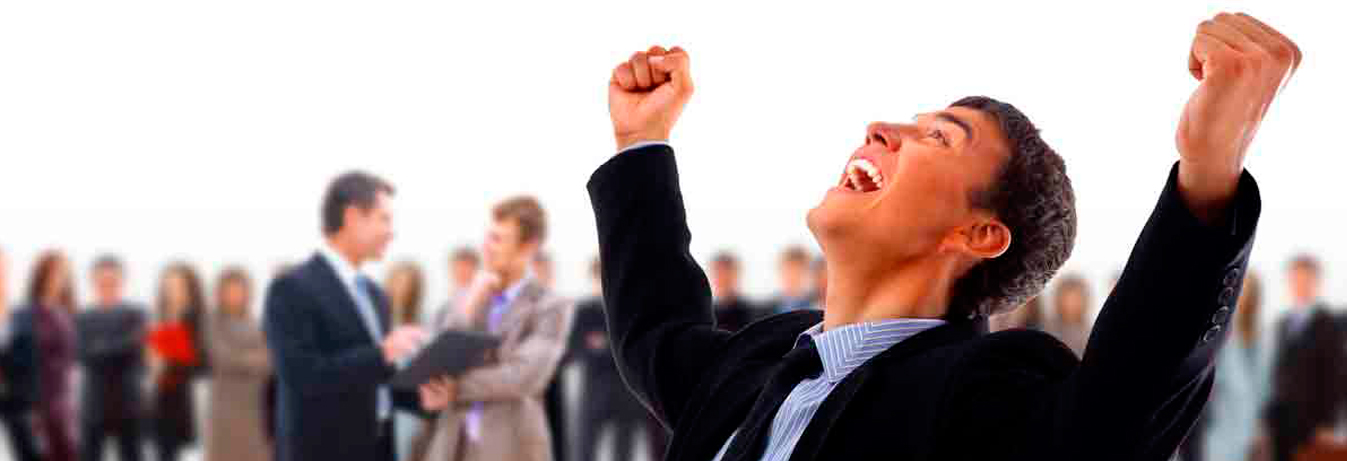
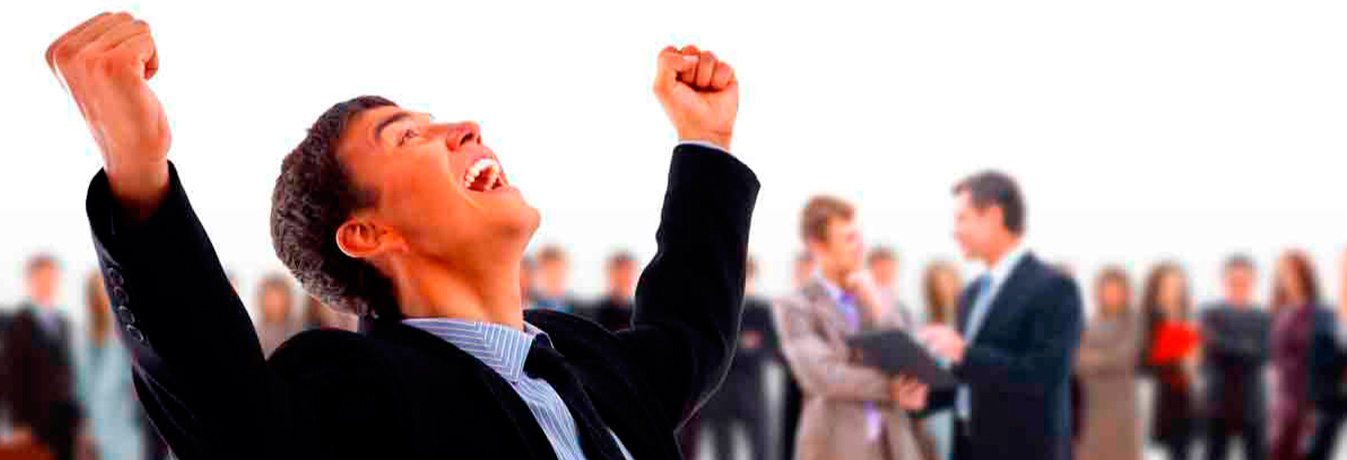
Cambiado banner2, agregado maps

diff --git a/css/main.css b/css/main.css
@@ -9,9 +9,9 @@ header {
     right: 0
 }
 #socials ul {
-    left: 5px;
+    left: 7px;
     position: absolute;
-    top: 6px;
+    top: 5px;
 }
 #socials li a {
     display: inline-block;
@@ -20,13 +20,13 @@ header {
     text-indent: -10000px;
 }
 #in {
-    margin-right: 6px;
+    margin-right: 9px;
 }
 #yt {
     margin-left: 8px
 }
 #tw {
-    margin-left: 6px;
+    margin-left: 7px;
 }
 .container {
     background-color: #000

diff --git a/contacto.php b/contacto.php
@@ -55,6 +55,7 @@
 				<p>Muchas gracias por ponerte en contacto con Contactopm, Completa el formulario y te haremos llegar información sobre nuestros servicios y responder tu comentario.</p>
 				<p>Uno de los miembros de nuestro equipo dará respuesta a tus consultas lo más pronto posible.</p>
 				<br>
+				<iframe src="https://www.google.com/maps/embed?pb=!1m18!1m12!1m3!1d3900.683361524465!2d-76.98317453907535!3d-12.133803844372062!2m3!1f0!2f0!3f0!3m2!1i1024!2i768!4f13.1!3m3!1m2!1s0x9105b87312428d59%3A0xeefc4846d542ff06!2sJir%C3%B3n+Ismael+Bielich+Flores+927%2C+Santiago+de+Surco+15039!5e0!3m2!1ses-419!2spe!4v1436279994420" width="285" height="260" frameborder="0" style="border:0" allowfullscreen class="pull-left"></iframe>
 				<img src="img/contacto.jpg" alt="" class="img-responsive pull-right">
 			</div>
 		</div>

diff --git a/tpl/header.tpl.php b/tpl/header.tpl.php
@@ -26,7 +26,6 @@
                         <ul class="list-unstyled">
                             <li class="pull-left"><a href="#" id="in">L</a></li>
                             <li class="pull-left"><a href="#" id="fb">F</a></li>
-                            <li class="pull-left"><a href="#" id="yt">Y</a></li>
                             <li class="pull-left"><a href="#" id="tw">T</a></li>
                         </ul>
                     </div>

diff --git a/postula.php b/postula.php
@@ -1,7 +1,7 @@
 <?php include 'tpl/header.tpl.php' ?>
 <section class="content-page">
 	<div id="servicios">
-		<h2 class="page-header">POSTULA</h2>
+		<h2 class="page-header">¿BUSCAS TRABAJO?</h2>
 		<div class="row">
 			<div class="col-sm-6">
 				<h4>Oportunidades Laborales</h4>
